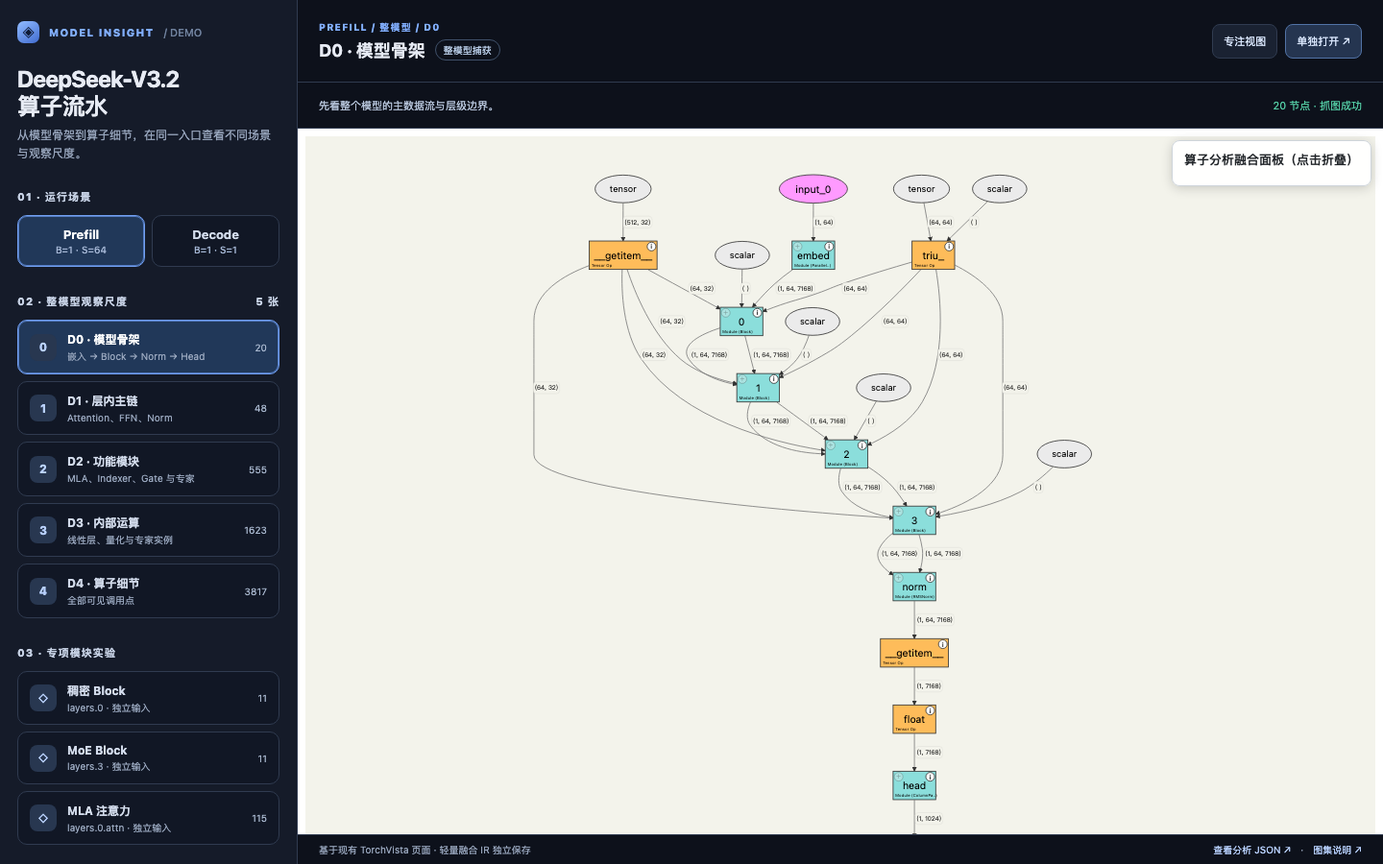
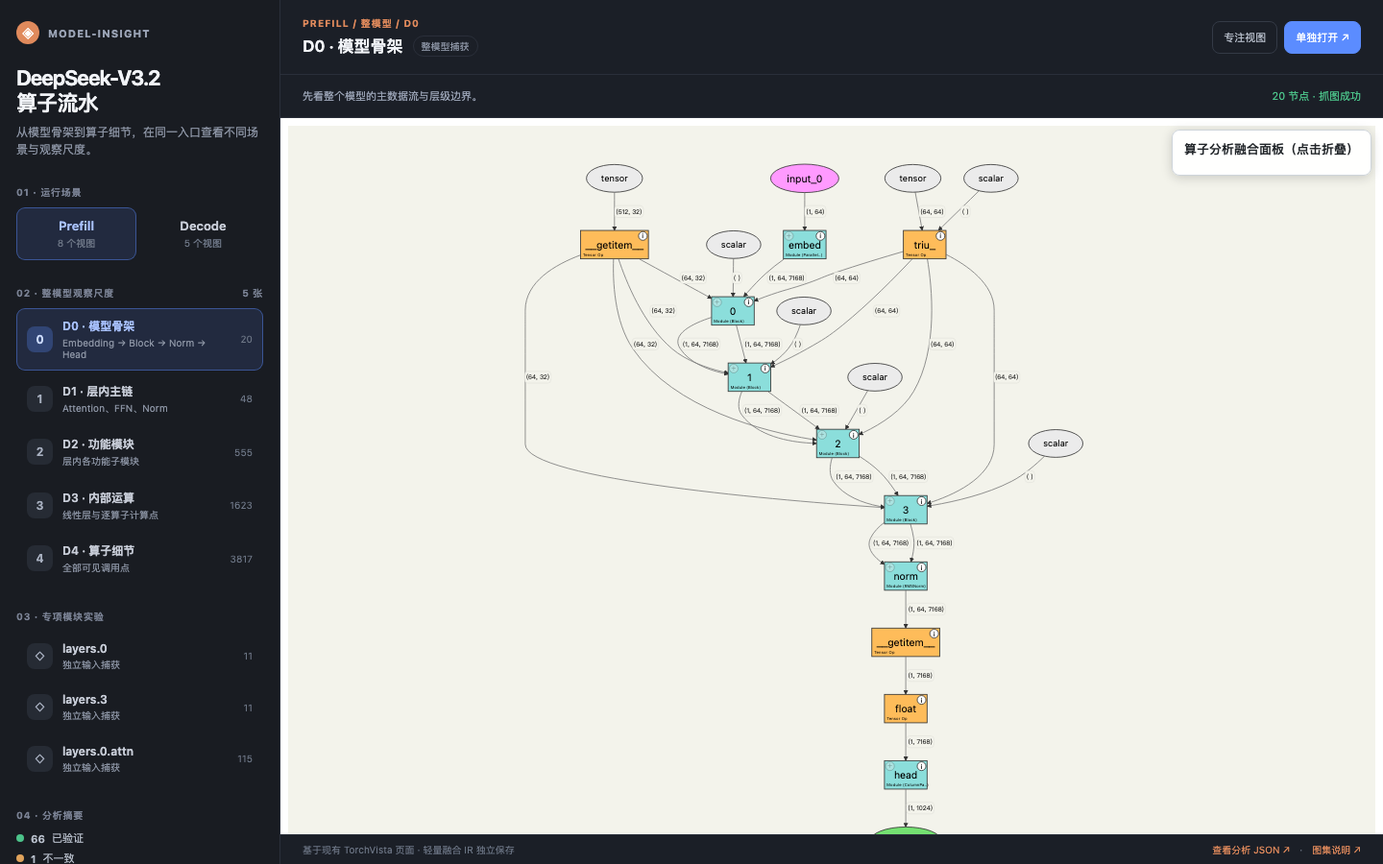
feat: 面板定版暗色主题 + GitHub Pages 上线
- render_index.py 主题重制：以 Codex demo 预览图为视觉基准（深色框架、
  橙色品牌/眉标、蓝色交互选中态），暗色风格由生成器统一保证，双模型
  面板重新生成；五态圆点亮色适配，rail 补副标题说明
- preview.png 重截（V3.2/K3 各一张，与实际面板视觉一致，替代旧暗色
  demo 截图）；tests 8 步全绿
- 开通 GitHub Pages（main/root，.nojekyll 跳过 Jekyll）：README 示例区
  改为在线直达链接，本地 http.server 降为备选
- SKILL 阶段五补暗色主题工序声明

diff --git a/outputs/Kimi-K3/viz/index.html b/outputs/Kimi-K3/viz/index.html
@@ -5,8 +5,8 @@
 <meta name="viewport" content="width=device-width,initial-scale=1">
 <title>Kimi-K3 · 算子流水</title>
 <style>
-:root{font-family:Inter,-apple-system,BlinkMacSystemFont,"PingFang SC","Microsoft Yahei",sans-serif;color:#292722;background:#f8f7f4;--panel:#f2f0eb;--panel2:#ebe8e1;--line:#e2ded6;--muted:#77736c;--accent:#c56a45;--accent-soft:#f4e7df;--good:#39745c;--warn:#a66a26}
-*{box-sizing:border-box}body{margin:0;min-height:100vh}button,a{font:inherit}button{cursor:pointer}a{color:inherit}.app{display:grid;grid-template-columns:292px minmax(0,1fr);height:100vh;min-height:580px}.rail{background:var(--panel);border-right:1px solid var(--line);overflow:auto;padding:22px 17px}.brand{display:flex;align-items:center;gap:9px;font-size:11px;letter-spacing:.09em;font-weight:750;color:#716d66;text-transform:uppercase}.mark{width:24px;height:24px;display:grid;place-items:center;border-radius:50%;background:#d97850;color:#fff;font-size:14px;letter-spacing:0}.rail h1{font-size:22px;line-height:1.2;letter-spacing:-.035em;margin:22px 0 8px;font-weight:650}.subtle{color:var(--muted);font-size:12px;line-height:1.55}.section{margin-top:27px}.section-head{display:flex;align-items:center;justify-content:space-between;color:#77736c;font-size:10px;letter-spacing:.08em;font-weight:700;text-transform:uppercase;margin-bottom:9px}.tabs{display:grid;grid-template-columns:1fr 1fr;gap:7px}.tab,.item{border:1px solid transparent;background:transparent;color:#383630;border-radius:9px}.tab{padding:10px 7px;font-size:13px;font-weight:600}.tab:hover,.item:hover{background:#eae7e0}.tab.active,.item.active{border-color:#e6c6b6;background:#f5e8e1;color:#7d4029;box-shadow:none}.tab small{display:block;font-size:10px;color:#8f786b;font-weight:450;margin-top:3px}.items{display:grid;gap:3px}.item{text-align:left;padding:9px 10px;display:flex;align-items:center;gap:10px;width:100%}.n{flex:0 0 27px;height:27px;border-radius:8px;display:grid;place-items:center;background:#e8e5de;color:#706b62;font-size:12px;font-weight:650}.item.active .n{background:#e6c7b7;color:#87462e}.item strong{display:block;font-size:12px;font-weight:600}.item small{display:block;color:var(--muted);font-size:10px;margin-top:3px;line-height:1.25}.count{margin-left:auto;color:#8a857c;font-size:10px;white-space:nowrap}.empty{color:var(--muted);font-size:12px;border:1px dashed #d7d1c7;padding:12px;border-radius:9px}.stats{display:grid;gap:5px}.stat{display:flex;align-items:center;gap:7px;font-size:11px;color:#4c4842}.stat b{font-weight:650}.dot{width:8px;height:8px;border-radius:50%;flex:0 0 8px}.note{margin-top:9px;font-size:10px;line-height:1.5;color:var(--muted);cursor:help}.main{min-width:0;display:flex;flex-direction:column}.top{display:flex;justify-content:space-between;align-items:center;gap:14px;padding:17px 23px;border-bottom:1px solid var(--line);min-height:78px;background:#fbfaf8}.eyebrow{color:#a85a3b;font-size:10px;letter-spacing:.1em;text-transform:uppercase;font-weight:700}.heading{display:flex;align-items:center;gap:10px;margin-top:5px;flex-wrap:wrap}.heading h2{font-size:17px;margin:0;font-weight:620}.pill{border:1px solid #e2ded6;color:#77736c;border-radius:50px;padding:3px 8px;font-size:10px}.topactions{display:flex;gap:7px;flex-shrink:0}.action{background:#c56a45;color:white;border:1px solid #c56a45;border-radius:8px;text-decoration:none;padding:8px 11px;font-size:11px}.action:hover{background:#ad5938}.action.secondary{background:transparent;color:#57534d;border-color:#ddd8cf}.action.secondary:hover{background:#f0eee9}.context{display:flex;gap:16px;align-items:center;justify-content:space-between;padding:10px 23px;border-bottom:1px solid var(--line);color:#6e6961;font-size:11px;min-height:45px;background:#fbfaf8}.context .warning{color:var(--warn)}.context .good{color:var(--good)}.framewrap{position:relative;flex:1;min-height:0;background:#f0f1f2}.framewrap iframe{width:100%;height:100%;border:0;background:white}.loading{position:absolute;z-index:1;inset:0;display:grid;place-items:center;background:#f0f1f2;color:#686d72;font-size:13px}.loading[hidden]{display:none}.foot{display:flex;justify-content:space-between;gap:12px;align-items:center;padding:8px 23px;border-top:1px solid var(--line);font-size:10px;color:var(--muted);background:#fbfaf8}.foot a{color:#9e573b;text-decoration:none}.focused .rail{display:none}.focused .app{grid-template-columns:1fr}@media(max-width:850px){.app{grid-template-columns:1fr;height:auto;min-height:100vh}.rail{border-right:0;border-bottom:1px solid var(--line);max-height:290px;padding:14px}.rail h1{font-size:18px;margin:10px 0 3px}.rail .section{margin-top:14px}.items{grid-template-columns:repeat(2,minmax(0,1fr))}.item{padding:8px}.main{height:calc(100vh - 260px);min-height:450px}.top{padding:10px}.context,.foot{padding:8px 10px}.action{padding:7px}.topactions{gap:4px}}
+:root{font-family:Inter,-apple-system,BlinkMacSystemFont,"PingFang SC","Microsoft Yahei",sans-serif;color:#e8eaf0;background:#14161b;--panel:#191c22;--panel2:#20242c;--line:#2a2f3a;--muted:#8b93a3;--accent:#e08a5c;--blue:#5b8cff;--blue-soft:rgba(91,140,255,.13);--good:#4cc38a;--warn:#e0a35c}
+*{box-sizing:border-box}body{margin:0;min-height:100vh}button,a{font:inherit}button{cursor:pointer}a{color:inherit}.app{display:grid;grid-template-columns:292px minmax(0,1fr);height:100vh;min-height:580px}.rail{background:var(--panel);border-right:1px solid var(--line);overflow:auto;padding:22px 17px}.brand{display:flex;align-items:center;gap:9px;font-size:11px;letter-spacing:.09em;font-weight:750;color:#9aa3b5;text-transform:uppercase}.mark{width:24px;height:24px;display:grid;place-items:center;border-radius:50%;background:var(--accent);color:#fff;font-size:14px;letter-spacing:0}.rail h1{font-size:22px;line-height:1.2;letter-spacing:-.035em;margin:22px 0 8px;font-weight:650;color:#f2f4f8}.subtle{color:var(--muted);font-size:12px;line-height:1.55}.section{margin-top:27px}.section-head{display:flex;align-items:center;justify-content:space-between;color:#7a8294;font-size:10px;letter-spacing:.08em;font-weight:700;text-transform:uppercase;margin-bottom:9px}.tabs{display:grid;grid-template-columns:1fr 1fr;gap:7px}.tab,.item{border:1px solid transparent;background:transparent;color:#c8cdd8;border-radius:9px}.tab{padding:10px 7px;font-size:13px;font-weight:600}.tab:hover,.item:hover{background:#232833}.tab.active,.item.active{border-color:rgba(91,140,255,.45);background:var(--blue-soft);color:#a9c2ff;box-shadow:none}.tab small{display:block;font-size:10px;color:#6d7686;font-weight:450;margin-top:3px}.items{display:grid;gap:3px}.item{text-align:left;padding:9px 10px;display:flex;align-items:center;gap:10px;width:100%}.n{flex:0 0 27px;height:27px;border-radius:8px;display:grid;place-items:center;background:#262b34;color:#a8b0c0;font-size:12px;font-weight:650}.item.active .n{background:rgba(91,140,255,.28);color:#cddcff}.item strong{display:block;font-size:12px;font-weight:600}.item small{display:block;color:var(--muted);font-size:10px;margin-top:3px;line-height:1.25}.count{margin-left:auto;color:#6d7686;font-size:10px;white-space:nowrap}.empty{color:var(--muted);font-size:12px;border:1px dashed #3a404c;padding:12px;border-radius:9px}.stats{display:grid;gap:5px}.stat{display:flex;align-items:center;gap:7px;font-size:11px;color:#b6bdc9}.stat b{font-weight:650}.dot{width:8px;height:8px;border-radius:50%;flex:0 0 8px}.note{margin-top:9px;font-size:10px;line-height:1.5;color:var(--muted);cursor:help}.main{min-width:0;display:flex;flex-direction:column}.top{display:flex;justify-content:space-between;align-items:center;gap:14px;padding:17px 23px;border-bottom:1px solid var(--line);min-height:78px;background:#1b1f27}.eyebrow{color:var(--accent);font-size:10px;letter-spacing:.1em;text-transform:uppercase;font-weight:700}.heading{display:flex;align-items:center;gap:10px;margin-top:5px;flex-wrap:wrap}.heading h2{font-size:17px;margin:0;font-weight:620;color:#f2f4f8}.pill{border:1px solid var(--line);color:var(--muted);border-radius:50px;padding:3px 8px;font-size:10px}.topactions{display:flex;gap:7px;flex-shrink:0}.action{background:var(--blue);color:white;border:1px solid var(--blue);border-radius:8px;text-decoration:none;padding:8px 11px;font-size:11px}.action:hover{background:#6f9aff}.action.secondary{background:transparent;color:#b6bdc9;border-color:#343a46}.action.secondary:hover{background:#232833}.context{display:flex;gap:16px;align-items:center;justify-content:space-between;padding:10px 23px;border-bottom:1px solid var(--line);color:#9aa3b5;font-size:11px;min-height:45px;background:#1b1f27}.context .warning{color:var(--warn)}.context .good{color:var(--good)}.framewrap{position:relative;flex:1;min-height:0;background:#0f1115}.framewrap iframe{width:100%;height:100%;border:0;background:white}.loading{position:absolute;z-index:1;inset:0;display:grid;place-items:center;background:#0f1115;color:#7a8294;font-size:13px}.loading[hidden]{display:none}.foot{display:flex;justify-content:space-between;gap:12px;align-items:center;padding:8px 23px;border-top:1px solid var(--line);font-size:10px;color:#6d7686;background:#1b1f27}.foot a{color:var(--accent);text-decoration:none}.focused .rail{display:none}.focused .app{grid-template-columns:1fr}@media(max-width:850px){.app{grid-template-columns:1fr;height:auto;min-height:100vh}.rail{border-right:0;border-bottom:1px solid var(--line);max-height:290px;padding:14px}.rail h1{font-size:18px;margin:10px 0 3px}.rail .section{margin-top:14px}.items{grid-template-columns:repeat(2,minmax(0,1fr))}.item{padding:8px}.main{height:calc(100vh - 260px);min-height:450px}.top{padding:10px}.context,.foot{padding:8px 10px}.action{padding:7px}.topactions{gap:4px}}
 </style>
 </head>
 <body>
@@ -14,6 +14,7 @@
 <aside class="rail" aria-label="视图导航">
   <div class="brand"><span class="mark">◈</span> Model-Insight</div>
   <h1>Kimi-K3<br>算子流水</h1>
+  <div class="subtle">从模型骨架到算子细节，在同一入口查看不同场景与观察尺度。</div>
   <section class="section"><div class="section-head">01 · 运行场景</div><div class="tabs" id="scenarios"></div></section>
   <section class="section"><div class="section-head">02 · 整模型视图 <span id="depthCount"></span></div><div class="items" id="depths"></div></section>
   <section class="section"><div class="section-head">03 · 专项模块实验</div><div class="items" id="modules"></div></section>
@@ -29,7 +30,7 @@
 const VIEWS=[{"id":"macro_prefill_vision","file":"macro_prefill_vision.html","kind":"macro","scenario":"prefill_vision","depth":null,"target":null,"title":"整模型","nodes":5210,"status":"ok"},{"id":"macro_prefill_text","file":"macro_prefill_text.html","kind":"macro","scenario":"prefill_text","depth":null,"target":null,"title":"整模型","nodes":2528,"status":"ok"},{"id":"macro_decode","file":"macro_decode.html","kind":"macro","scenario":"decode","depth":null,"target":null,"title":"整模型","nodes":1444,"status":"ok"},{"id":"micro_vit_patch_embed","file":"micro_vit_patch_embed.html","kind":"micro","scenario":"prefill_vision","depth":0,"target":"vision_tower.patch_embed","title":"vision_tower.patch_embed","nodes":31,"status":"ok"},{"id":"micro_vit_pos_emb","file":"micro_vit_pos_emb.html","kind":"micro","scenario":"prefill_vision","depth":0,"target":"vision_tower.patch_embed.pos_emb","title":"vision_tower.patch_embed.pos_emb","nodes":16,"status":"ok"},{"id":"micro_vit_layer0","file":"micro_vit_layer0.html","kind":"micro","scenario":"prefill_vision","depth":0,"target":"vision_tower.encoder.blocks.0","title":"vision_tower.encoder.blocks.0","nodes":84,"status":"ok"},{"id":"micro_projector","file":"micro_projector.html","kind":"micro","scenario":"prefill_vision","depth":0,"target":"mm_projector","title":"mm_projector","nodes":18,"status":"ok"},{"id":"micro_layer_kda0","file":"micro_layer_kda0.html","kind":"micro","scenario":"prefill_text","depth":0,"target":"language_model.model.layers.0","title":"language_model.model.layers.0","nodes":612,"status":"ok"},{"id":"micro_layer_kda_moe1","file":"micro_layer_kda_moe1.html","kind":"micro","scenario":"prefill_text","depth":0,"target":"language_model.model.layers.1","title":"language_model.model.layers.1","nodes":810,"status":"ok"},{"id":"micro_layer_mla3","file":"micro_layer_mla3.html","kind":"micro","scenario":"prefill_text","depth":0,"target":"language_model.model.layers.3","title":"language_model.model.layers.3","nodes":374,"status":"ok"},{"id":"micro_attn_kda","file":"micro_attn_kda.html","kind":"micro","scenario":"prefill_text","depth":0,"target":"language_model.model.layers.0.self_attn","title":"language_model.model.layers.0.self_attn","nodes":521,"status":"ok"},{"id":"micro_attn_mla","file":"micro_attn_mla.html","kind":"micro","scenario":"prefill_text","depth":0,"target":"language_model.model.layers.3.self_attn","title":"language_model.model.layers.3.self_attn","nodes":85,"status":"ok"},{"id":"micro_attn_kda_decode","file":"micro_attn_kda_decode.html","kind":"micro","scenario":"decode","depth":0,"target":"language_model.model.layers.0.self_attn","title":"language_model.model.layers.0.self_attn","nodes":162,"status":"ok"},{"id":"micro_attn_mla_decode","file":"micro_attn_mla_decode.html","kind":"micro","scenario":"decode","depth":0,"target":"language_model.model.layers.3.self_attn","title":"language_model.model.layers.3.self_attn","nodes":89,"status":"ok"},{"id":"micro_moe_gate","file":"micro_moe_gate.html","kind":"micro","scenario":"prefill_text","depth":0,"target":"language_model.model.layers.1.block_sparse_moe.gate","title":"language_model.model.layers.1.block_sparse_moe.gate","nodes":25,"status":"ok"},{"id":"micro_expert0","file":"micro_expert0.html","kind":"micro","scenario":"prefill_text","depth":0,"target":"language_model.model.layers.1.block_sparse_moe.experts.0","title":"language_model.model.layers.1.block_sparse_moe.experts.0","nodes":27,"status":"ok"},{"id":"micro_mlp_dense","file":"micro_mlp_dense.html","kind":"micro","scenario":"prefill_text","depth":0,"target":"language_model.model.layers.0.mlp","title":"language_model.model.layers.0.mlp","nodes":27,"status":"ok"},{"id":"micro_embed","file":"micro_embed.html","kind":"micro","scenario":"prefill_text","depth":0,"target":"language_model.model.embed_tokens","title":"language_model.model.embed_tokens","nodes":5,"status":"ok"},{"id":"micro_norm","file":"micro_norm.html","kind":"micro","scenario":"prefill_text","depth":0,"target":"language_model.model.norm","title":"language_model.model.norm","nodes":14,"status":"ok"},{"id":"micro_lm_head","file":"micro_lm_head.html","kind":"micro","scenario":"prefill_text","depth":0,"target":"language_model.lm_head","title":"language_model.lm_head","nodes":4,"status":"ok"}];
 const DETAILS={"depthnull":{"title":"整模型","description":"单次整模型捕获","long":"该运行无深度系列，整模型一张图完成观察。"},"micro_vit_patch_embed":{"title":"vision_tower.patch_embed","description":"独立输入捕获","long":"使用单独构造的输入捕获 vision_tower.patch_embed；与整模型视图分别产生。"},"micro_vit_pos_emb":{"title":"vision_tower.patch_embed.pos_emb","description":"独立输入捕获","long":"使用单独构造的输入捕获 vision_tower.patch_embed.pos_emb；与整模型视图分别产生。"},"micro_vit_layer0":{"title":"vision_tower.encoder.blocks.0","description":"独立输入捕获","long":"使用单独构造的输入捕获 vision_tower.encoder.blocks.0；与整模型视图分别产生。"},"micro_projector":{"title":"mm_projector","description":"独立输入捕获","long":"使用单独构造的输入捕获 mm_projector；与整模型视图分别产生。"},"micro_layer_kda0":{"title":"language_model.model.layers.0","description":"独立输入捕获","long":"使用单独构造的输入捕获 language_model.model.layers.0；与整模型视图分别产生。"},"micro_layer_kda_moe1":{"title":"language_model.model.layers.1","description":"独立输入捕获","long":"使用单独构造的输入捕获 language_model.model.layers.1；与整模型视图分别产生。"},"micro_layer_mla3":{"title":"language_model.model.layers.3","description":"独立输入捕获","long":"使用单独构造的输入捕获 language_model.model.layers.3；与整模型视图分别产生。"},"micro_attn_kda":{"title":"language_model.model.layers.0.self_attn","description":"独立输入捕获","long":"使用单独构造的输入捕获 language_model.model.layers.0.self_attn；与整模型视图分别产生。"},"micro_attn_mla":{"title":"language_model.model.layers.3.self_attn","description":"独立输入捕获","long":"使用单独构造的输入捕获 language_model.model.layers.3.self_attn；与整模型视图分别产生。"},"micro_attn_kda_decode":{"title":"language_model.model.layers.0.self_attn","description":"独立输入捕获","long":"使用单独构造的输入捕获 language_model.model.layers.0.self_attn；与整模型视图分别产生。"},"micro_attn_mla_decode":{"title":"language_model.model.layers.3.self_attn","description":"独立输入捕获","long":"使用单独构造的输入捕获 language_model.model.layers.3.self_attn；与整模型视图分别产生。"},"micro_moe_gate":{"title":"language_model.model.layers.1.block_sparse_moe.gate","description":"独立输入捕获","long":"使用单独构造的输入捕获 language_model.model.layers.1.block_sparse_moe.gate；与整模型视图分别产生。"},"micro_expert0":{"title":"language_model.model.layers.1.block_sparse_moe.experts.0","description":"独立输入捕获","long":"使用单独构造的输入捕获 language_model.model.layers.1.block_sparse_moe.experts.0；与整模型视图分别产生。"},"micro_mlp_dense":{"title":"language_model.model.layers.0.mlp","description":"独立输入捕获","long":"使用单独构造的输入捕获 language_model.model.layers.0.mlp；与整模型视图分别产生。"},"micro_embed":{"title":"language_model.model.embed_tokens","description":"独立输入捕获","long":"使用单独构造的输入捕获 language_model.model.embed_tokens；与整模型视图分别产生。"},"micro_norm":{"title":"language_model.model.norm","description":"独立输入捕获","long":"使用单独构造的输入捕获 language_model.model.norm；与整模型视图分别产生。"},"micro_lm_head":{"title":"language_model.lm_head","description":"独立输入捕获","long":"使用单独构造的输入捕获 language_model.lm_head；与整模型视图分别产生。"}};
 const SUMMARY={"statuses":{"verified":64,"mismatch":0,"llm_only":5,"capture_only":0,"conflict":0},"totalNodes":69,"replacementCount":4,"replacementsFull":"· R1 einops.rearrange 子集 shim（sys.path 首位导入级遮蔽，覆盖 KDA 用到的 4 种模式串）\n· R2 fla 包 shim：FusedRMSNormGated / ShortConvolution / chunk_kda / fused_recurrent_kda / prepare_* / tensor_cache 六组件数学重建\n· R3 语言侧 FA2 纯 torch 等价函数注册（softmax(QK^T·scale)V，bottom-right 因果）\n· P transformers 5.17.0 兼容补丁 4 项：OutputRecorder 迁移别名 / create_causal_mask 形参与 KimiDynamicCache 短路 / tie_weights 签名 / config._attn_implementation 回写","scaleNote":"分支维度全部保真：situ 激活（fp32 内部）、latent MoE+routed_norm、MLA 低秩+输出门+无 o_norm（o_norm 为 KDA 专属 FusedRMSNormGated）、KDA 短卷积 k=4+全秩门控+gate_lower_bound=-…"};
-const STATUS_META=[["verified","已验证","#39745c"],["mismatch","不一致","#a66a26"],["llm_only","仅推导","#77736c"],["capture_only","仅捕获","#77736c"],["conflict","冲突","#b3452f"]];
+const STATUS_META=[["verified","已验证","#4cc38a"],["mismatch","不一致","#e0a35c"],["llm_only","仅推导","#8b93a3"],["capture_only","仅捕获","#8b93a3"],["conflict","冲突","#e06c5c"]];
 const $=id=>document.getElementById(id);
 const byId=Object.fromEntries(VIEWS.map(v=>[v.id,v]));
 const SCENARIOS=[...new Set(VIEWS.map(v=>v.scenario))].map(s=>({key:s,label:s.charAt(0).toUpperCase()+s.slice(1).replace(/_/g,' '),count:VIEWS.filter(v=>v.scenario===s).length}));

diff --git a/outputs/DeepSeek-V3.2/viz/index.html b/outputs/DeepSeek-V3.2/viz/index.html
@@ -5,8 +5,8 @@
 <meta name="viewport" content="width=device-width,initial-scale=1">
 <title>DeepSeek-V3.2 · 算子流水</title>
 <style>
-:root{font-family:Inter,-apple-system,BlinkMacSystemFont,"PingFang SC","Microsoft Yahei",sans-serif;color:#292722;background:#f8f7f4;--panel:#f2f0eb;--panel2:#ebe8e1;--line:#e2ded6;--muted:#77736c;--accent:#c56a45;--accent-soft:#f4e7df;--good:#39745c;--warn:#a66a26}
-*{box-sizing:border-box}body{margin:0;min-height:100vh}button,a{font:inherit}button{cursor:pointer}a{color:inherit}.app{display:grid;grid-template-columns:292px minmax(0,1fr);height:100vh;min-height:580px}.rail{background:var(--panel);border-right:1px solid var(--line);overflow:auto;padding:22px 17px}.brand{display:flex;align-items:center;gap:9px;font-size:11px;letter-spacing:.09em;font-weight:750;color:#716d66;text-transform:uppercase}.mark{width:24px;height:24px;display:grid;place-items:center;border-radius:50%;background:#d97850;color:#fff;font-size:14px;letter-spacing:0}.rail h1{font-size:22px;line-height:1.2;letter-spacing:-.035em;margin:22px 0 8px;font-weight:650}.subtle{color:var(--muted);font-size:12px;line-height:1.55}.section{margin-top:27px}.section-head{display:flex;align-items:center;justify-content:space-between;color:#77736c;font-size:10px;letter-spacing:.08em;font-weight:700;text-transform:uppercase;margin-bottom:9px}.tabs{display:grid;grid-template-columns:1fr 1fr;gap:7px}.tab,.item{border:1px solid transparent;background:transparent;color:#383630;border-radius:9px}.tab{padding:10px 7px;font-size:13px;font-weight:600}.tab:hover,.item:hover{background:#eae7e0}.tab.active,.item.active{border-color:#e6c6b6;background:#f5e8e1;color:#7d4029;box-shadow:none}.tab small{display:block;font-size:10px;color:#8f786b;font-weight:450;margin-top:3px}.items{display:grid;gap:3px}.item{text-align:left;padding:9px 10px;display:flex;align-items:center;gap:10px;width:100%}.n{flex:0 0 27px;height:27px;border-radius:8px;display:grid;place-items:center;background:#e8e5de;color:#706b62;font-size:12px;font-weight:650}.item.active .n{background:#e6c7b7;color:#87462e}.item strong{display:block;font-size:12px;font-weight:600}.item small{display:block;color:var(--muted);font-size:10px;margin-top:3px;line-height:1.25}.count{margin-left:auto;color:#8a857c;font-size:10px;white-space:nowrap}.empty{color:var(--muted);font-size:12px;border:1px dashed #d7d1c7;padding:12px;border-radius:9px}.stats{display:grid;gap:5px}.stat{display:flex;align-items:center;gap:7px;font-size:11px;color:#4c4842}.stat b{font-weight:650}.dot{width:8px;height:8px;border-radius:50%;flex:0 0 8px}.note{margin-top:9px;font-size:10px;line-height:1.5;color:var(--muted);cursor:help}.main{min-width:0;display:flex;flex-direction:column}.top{display:flex;justify-content:space-between;align-items:center;gap:14px;padding:17px 23px;border-bottom:1px solid var(--line);min-height:78px;background:#fbfaf8}.eyebrow{color:#a85a3b;font-size:10px;letter-spacing:.1em;text-transform:uppercase;font-weight:700}.heading{display:flex;align-items:center;gap:10px;margin-top:5px;flex-wrap:wrap}.heading h2{font-size:17px;margin:0;font-weight:620}.pill{border:1px solid #e2ded6;color:#77736c;border-radius:50px;padding:3px 8px;font-size:10px}.topactions{display:flex;gap:7px;flex-shrink:0}.action{background:#c56a45;color:white;border:1px solid #c56a45;border-radius:8px;text-decoration:none;padding:8px 11px;font-size:11px}.action:hover{background:#ad5938}.action.secondary{background:transparent;color:#57534d;border-color:#ddd8cf}.action.secondary:hover{background:#f0eee9}.context{display:flex;gap:16px;align-items:center;justify-content:space-between;padding:10px 23px;border-bottom:1px solid var(--line);color:#6e6961;font-size:11px;min-height:45px;background:#fbfaf8}.context .warning{color:var(--warn)}.context .good{color:var(--good)}.framewrap{position:relative;flex:1;min-height:0;background:#f0f1f2}.framewrap iframe{width:100%;height:100%;border:0;background:white}.loading{position:absolute;z-index:1;inset:0;display:grid;place-items:center;background:#f0f1f2;color:#686d72;font-size:13px}.loading[hidden]{display:none}.foot{display:flex;justify-content:space-between;gap:12px;align-items:center;padding:8px 23px;border-top:1px solid var(--line);font-size:10px;color:var(--muted);background:#fbfaf8}.foot a{color:#9e573b;text-decoration:none}.focused .rail{display:none}.focused .app{grid-template-columns:1fr}@media(max-width:850px){.app{grid-template-columns:1fr;height:auto;min-height:100vh}.rail{border-right:0;border-bottom:1px solid var(--line);max-height:290px;padding:14px}.rail h1{font-size:18px;margin:10px 0 3px}.rail .section{margin-top:14px}.items{grid-template-columns:repeat(2,minmax(0,1fr))}.item{padding:8px}.main{height:calc(100vh - 260px);min-height:450px}.top{padding:10px}.context,.foot{padding:8px 10px}.action{padding:7px}.topactions{gap:4px}}
+:root{font-family:Inter,-apple-system,BlinkMacSystemFont,"PingFang SC","Microsoft Yahei",sans-serif;color:#e8eaf0;background:#14161b;--panel:#191c22;--panel2:#20242c;--line:#2a2f3a;--muted:#8b93a3;--accent:#e08a5c;--blue:#5b8cff;--blue-soft:rgba(91,140,255,.13);--good:#4cc38a;--warn:#e0a35c}
+*{box-sizing:border-box}body{margin:0;min-height:100vh}button,a{font:inherit}button{cursor:pointer}a{color:inherit}.app{display:grid;grid-template-columns:292px minmax(0,1fr);height:100vh;min-height:580px}.rail{background:var(--panel);border-right:1px solid var(--line);overflow:auto;padding:22px 17px}.brand{display:flex;align-items:center;gap:9px;font-size:11px;letter-spacing:.09em;font-weight:750;color:#9aa3b5;text-transform:uppercase}.mark{width:24px;height:24px;display:grid;place-items:center;border-radius:50%;background:var(--accent);color:#fff;font-size:14px;letter-spacing:0}.rail h1{font-size:22px;line-height:1.2;letter-spacing:-.035em;margin:22px 0 8px;font-weight:650;color:#f2f4f8}.subtle{color:var(--muted);font-size:12px;line-height:1.55}.section{margin-top:27px}.section-head{display:flex;align-items:center;justify-content:space-between;color:#7a8294;font-size:10px;letter-spacing:.08em;font-weight:700;text-transform:uppercase;margin-bottom:9px}.tabs{display:grid;grid-template-columns:1fr 1fr;gap:7px}.tab,.item{border:1px solid transparent;background:transparent;color:#c8cdd8;border-radius:9px}.tab{padding:10px 7px;font-size:13px;font-weight:600}.tab:hover,.item:hover{background:#232833}.tab.active,.item.active{border-color:rgba(91,140,255,.45);background:var(--blue-soft);color:#a9c2ff;box-shadow:none}.tab small{display:block;font-size:10px;color:#6d7686;font-weight:450;margin-top:3px}.items{display:grid;gap:3px}.item{text-align:left;padding:9px 10px;display:flex;align-items:center;gap:10px;width:100%}.n{flex:0 0 27px;height:27px;border-radius:8px;display:grid;place-items:center;background:#262b34;color:#a8b0c0;font-size:12px;font-weight:650}.item.active .n{background:rgba(91,140,255,.28);color:#cddcff}.item strong{display:block;font-size:12px;font-weight:600}.item small{display:block;color:var(--muted);font-size:10px;margin-top:3px;line-height:1.25}.count{margin-left:auto;color:#6d7686;font-size:10px;white-space:nowrap}.empty{color:var(--muted);font-size:12px;border:1px dashed #3a404c;padding:12px;border-radius:9px}.stats{display:grid;gap:5px}.stat{display:flex;align-items:center;gap:7px;font-size:11px;color:#b6bdc9}.stat b{font-weight:650}.dot{width:8px;height:8px;border-radius:50%;flex:0 0 8px}.note{margin-top:9px;font-size:10px;line-height:1.5;color:var(--muted);cursor:help}.main{min-width:0;display:flex;flex-direction:column}.top{display:flex;justify-content:space-between;align-items:center;gap:14px;padding:17px 23px;border-bottom:1px solid var(--line);min-height:78px;background:#1b1f27}.eyebrow{color:var(--accent);font-size:10px;letter-spacing:.1em;text-transform:uppercase;font-weight:700}.heading{display:flex;align-items:center;gap:10px;margin-top:5px;flex-wrap:wrap}.heading h2{font-size:17px;margin:0;font-weight:620;color:#f2f4f8}.pill{border:1px solid var(--line);color:var(--muted);border-radius:50px;padding:3px 8px;font-size:10px}.topactions{display:flex;gap:7px;flex-shrink:0}.action{background:var(--blue);color:white;border:1px solid var(--blue);border-radius:8px;text-decoration:none;padding:8px 11px;font-size:11px}.action:hover{background:#6f9aff}.action.secondary{background:transparent;color:#b6bdc9;border-color:#343a46}.action.secondary:hover{background:#232833}.context{display:flex;gap:16px;align-items:center;justify-content:space-between;padding:10px 23px;border-bottom:1px solid var(--line);color:#9aa3b5;font-size:11px;min-height:45px;background:#1b1f27}.context .warning{color:var(--warn)}.context .good{color:var(--good)}.framewrap{position:relative;flex:1;min-height:0;background:#0f1115}.framewrap iframe{width:100%;height:100%;border:0;background:white}.loading{position:absolute;z-index:1;inset:0;display:grid;place-items:center;background:#0f1115;color:#7a8294;font-size:13px}.loading[hidden]{display:none}.foot{display:flex;justify-content:space-between;gap:12px;align-items:center;padding:8px 23px;border-top:1px solid var(--line);font-size:10px;color:#6d7686;background:#1b1f27}.foot a{color:var(--accent);text-decoration:none}.focused .rail{display:none}.focused .app{grid-template-columns:1fr}@media(max-width:850px){.app{grid-template-columns:1fr;height:auto;min-height:100vh}.rail{border-right:0;border-bottom:1px solid var(--line);max-height:290px;padding:14px}.rail h1{font-size:18px;margin:10px 0 3px}.rail .section{margin-top:14px}.items{grid-template-columns:repeat(2,minmax(0,1fr))}.item{padding:8px}.main{height:calc(100vh - 260px);min-height:450px}.top{padding:10px}.context,.foot{padding:8px 10px}.action{padding:7px}.topactions{gap:4px}}
 </style>
 </head>
 <body>
@@ -14,6 +14,7 @@
 <aside class="rail" aria-label="视图导航">
   <div class="brand"><span class="mark">◈</span> Model-Insight</div>
   <h1>DeepSeek-V3.2<br>算子流水</h1>
+  <div class="subtle">从模型骨架到算子细节，在同一入口查看不同场景与观察尺度。</div>
   <section class="section"><div class="section-head">01 · 运行场景</div><div class="tabs" id="scenarios"></div></section>
   <section class="section"><div class="section-head">02 · 整模型观察尺度 <span id="depthCount"></span></div><div class="items" id="depths"></div></section>
   <section class="section"><div class="section-head">03 · 专项模块实验</div><div class="items" id="modules"></div></section>
@@ -29,7 +30,7 @@
 const VIEWS=[{"id":"macro_prefill_d0","file":"macro_prefill_d0.html","kind":"macro","scenario":"prefill","depth":0,"target":null,"title":"模型骨架","nodes":20,"status":"ok"},{"id":"macro_prefill_d1","file":"macro_prefill_d1.html","kind":"macro","scenario":"prefill","depth":1,"target":null,"title":"层内主链","nodes":48,"status":"ok"},{"id":"macro_prefill_d2","file":"macro_prefill_d2.html","kind":"macro","scenario":"prefill","depth":2,"target":null,"title":"功能模块","nodes":555,"status":"ok"},{"id":"macro_prefill_d3","file":"macro_prefill_d3.html","kind":"macro","scenario":"prefill","depth":3,"target":null,"title":"内部运算","nodes":1623,"status":"ok"},{"id":"macro_decode_d0","file":"macro_decode_d0.html","kind":"macro","scenario":"decode","depth":0,"target":null,"title":"模型骨架","nodes":17,"status":"ok"},{"id":"macro_decode_d1","file":"macro_decode_d1.html","kind":"macro","scenario":"decode","depth":1,"target":null,"title":"层内主链","nodes":45,"status":"ok"},{"id":"macro_decode_d2","file":"macro_decode_d2.html","kind":"macro","scenario":"decode","depth":2,"target":null,"title":"功能模块","nodes":644,"status":"ok"},{"id":"macro_decode_d3","file":"macro_decode_d3.html","kind":"macro","scenario":"decode","depth":3,"target":null,"title":"内部运算","nodes":1692,"status":"ok"},{"id":"macro_prefill_d4","file":"macro_prefill_d4.html","kind":"macro","scenario":"prefill","depth":4,"target":null,"title":"算子细节","nodes":3817,"status":"ok"},{"id":"macro_decode_d4","file":"macro_decode_d4.html","kind":"macro","scenario":"decode","depth":4,"target":null,"title":"算子细节","nodes":3658,"status":"ok"},{"id":"micro_dense_block","file":"micro_dense_block.html","kind":"micro","scenario":"prefill","depth":0,"target":"layers.0","title":"layers.0","nodes":11,"status":"ok"},{"id":"micro_moe_block","file":"micro_moe_block.html","kind":"micro","scenario":"prefill","depth":0,"target":"layers.3","title":"layers.3","nodes":11,"status":"ok"},{"id":"micro_mla_attn","file":"micro_mla_attn.html","kind":"micro","scenario":"prefill","depth":0,"target":"layers.0.attn","title":"layers.0.attn","nodes":115,"status":"ok"}];
 const DETAILS={"depth0":{"title":"模型骨架","description":"Embedding → Block → Norm → Head","long":"先看整个模型的主数据流与层级边界。"},"depth1":{"title":"层内主链","description":"Attention、FFN、Norm","long":"展开每层的注意力、前馈和归一化模块。"},"depth2":{"title":"功能模块","description":"层内各功能子模块","long":"查看注意力子模块、前馈、门控与专家等计算构成。"},"depth3":{"title":"内部运算","description":"线性层与逐算子计算点","long":"查看子模块内部的计算点与张量形状。"},"depth4":{"title":"算子细节","description":"全部可见调用点","long":"显示最细粒度算子，图较大，初次加载可能需要等待。"},"micro_dense_block":{"title":"layers.0","description":"独立输入捕获","long":"使用单独构造的输入捕获 layers.0；与整模型视图分别产生。"},"micro_moe_block":{"title":"layers.3","description":"独立输入捕获","long":"使用单独构造的输入捕获 layers.3；与整模型视图分别产生。"},"micro_mla_attn":{"title":"layers.0.attn","description":"独立输入捕获","long":"使用单独构造的输入捕获 layers.0.attn；与整模型视图分别产生。"}};
 const SUMMARY={"statuses":{"verified":66,"mismatch":1,"llm_only":1,"capture_only":0,"conflict":0},"totalNodes":68,"replacementCount":4,"replacementsFull":"· kernel.act_quant（tilelang 实现，毛坯 inference/kernel.py L87-111 fn + L36-84 kernel）\n· kernel.fp8_gemm（tilelang 实现，毛坯 inference/kernel.py L171-196 fn + L114-168 kernel）\n· kernel.fp8_index（tilelang 实现，毛坯 inference/kernel.py L254-274 fn + L199-251 kernel）\n· fast_hadamard_transform.hadamard_transform（CUDA 库，model.py L428-432 rotate_activation 内延迟 import，L472-473 对 Indexer q/k 调用）","scaleNote":"分支维度保真、规模维度缩水（不冒充全量）。671B 全量 → 抓图实例化对照：vocab_size 129280→1024；n_layers 61→4（层 0-2 稠密 + 层 3 MoE，保留真实层型边界）；n_heads 128→8（头结构不变：nope 128 / rop…"};
-const STATUS_META=[["verified","已验证","#39745c"],["mismatch","不一致","#a66a26"],["llm_only","仅推导","#77736c"],["capture_only","仅捕获","#77736c"],["conflict","冲突","#b3452f"]];
+const STATUS_META=[["verified","已验证","#4cc38a"],["mismatch","不一致","#e0a35c"],["llm_only","仅推导","#8b93a3"],["capture_only","仅捕获","#8b93a3"],["conflict","冲突","#e06c5c"]];
 const $=id=>document.getElementById(id);
 const byId=Object.fromEntries(VIEWS.map(v=>[v.id,v]));
 const SCENARIOS=[...new Set(VIEWS.map(v=>v.scenario))].map(s=>({key:s,label:s.charAt(0).toUpperCase()+s.slice(1).replace(/_/g,' '),count:VIEWS.filter(v=>v.scenario===s).length}));

diff --git a/agent-kit_ops-analysis/scripts/render_index.py b/agent-kit_ops-analysis/scripts/render_index.py
@@ -1,8 +1,8 @@
 #!/usr/bin/env python3
 """render_index.py — 生成 viz/index.html 集成面板（模型无关）。
 
-以 DeepSeek-V3.2 手搓面板为模板：CSS 与交互 JS 全部保留并改造为模型无关，
-数据全部实时读取、零硬编码：
+面板 UI 为统一暗色主题（橙色品牌/眉标 + 蓝色交互选中态），由本生成器
+整体产出、随重跑重算，禁手改。数据全部实时读取、零硬编码：
   - capture/capture_summary.json   作业清单（id/status/nodes/html）
   - capture/<id>.measured.json     每作业元数据（kind/scenario/target）
   - fusion/final_ir.json           模型名、五态统计、替换件、缩水声明
@@ -34,57 +34,59 @@ def fail(msg: str) -> None:
 # ---------------------------------------------------------------- 模板（源自手搓面板，JS 交互全保留）
 
 CSS = (
+    # 暗色主题（定版）：以 Codex demo 预览图为视觉基准——深色框架、
+    # 橙色品牌/眉标、蓝色交互选中态；TorchVista 图页保持原生亮色，嵌入深色框架
     ":root{font-family:Inter,-apple-system,BlinkMacSystemFont,\"PingFang SC\",\"Microsoft Yahei\",sans-serif;"
-    "color:#292722;background:#f8f7f4;--panel:#f2f0eb;--panel2:#ebe8e1;--line:#e2ded6;--muted:#77736c;"
-    "--accent:#c56a45;--accent-soft:#f4e7df;--good:#39745c;--warn:#a66a26}\n"
+    "color:#e8eaf0;background:#14161b;--panel:#191c22;--panel2:#20242c;--line:#2a2f3a;--muted:#8b93a3;"
+    "--accent:#e08a5c;--blue:#5b8cff;--blue-soft:rgba(91,140,255,.13);--good:#4cc38a;--warn:#e0a35c}\n"
     "*{box-sizing:border-box}body{margin:0;min-height:100vh}button,a{font:inherit}button{cursor:pointer}a{color:inherit}"
     ".app{display:grid;grid-template-columns:292px minmax(0,1fr);height:100vh;min-height:580px}"
     ".rail{background:var(--panel);border-right:1px solid var(--line);overflow:auto;padding:22px 17px}"
-    ".brand{display:flex;align-items:center;gap:9px;font-size:11px;letter-spacing:.09em;font-weight:750;color:#716d66;text-transform:uppercase}"
-    ".mark{width:24px;height:24px;display:grid;place-items:center;border-radius:50%;background:#d97850;color:#fff;font-size:14px;letter-spacing:0}"
-    ".rail h1{font-size:22px;line-height:1.2;letter-spacing:-.035em;margin:22px 0 8px;font-weight:650}"
+    ".brand{display:flex;align-items:center;gap:9px;font-size:11px;letter-spacing:.09em;font-weight:750;color:#9aa3b5;text-transform:uppercase}"
+    ".mark{width:24px;height:24px;display:grid;place-items:center;border-radius:50%;background:var(--accent);color:#fff;font-size:14px;letter-spacing:0}"
+    ".rail h1{font-size:22px;line-height:1.2;letter-spacing:-.035em;margin:22px 0 8px;font-weight:650;color:#f2f4f8}"
     ".subtle{color:var(--muted);font-size:12px;line-height:1.55}"
     ".section{margin-top:27px}"
-    ".section-head{display:flex;align-items:center;justify-content:space-between;color:#77736c;font-size:10px;letter-spacing:.08em;font-weight:700;text-transform:uppercase;margin-bottom:9px}"
+    ".section-head{display:flex;align-items:center;justify-content:space-between;color:#7a8294;font-size:10px;letter-spacing:.08em;font-weight:700;text-transform:uppercase;margin-bottom:9px}"
     ".tabs{display:grid;grid-template-columns:1fr 1fr;gap:7px}"
-    ".tab,.item{border:1px solid transparent;background:transparent;color:#383630;border-radius:9px}"
+    ".tab,.item{border:1px solid transparent;background:transparent;color:#c8cdd8;border-radius:9px}"
     ".tab{padding:10px 7px;font-size:13px;font-weight:600}"
-    ".tab:hover,.item:hover{background:#eae7e0}"
-    ".tab.active,.item.active{border-color:#e6c6b6;background:#f5e8e1;color:#7d4029;box-shadow:none}"
-    ".tab small{display:block;font-size:10px;color:#8f786b;font-weight:450;margin-top:3px}"
+    ".tab:hover,.item:hover{background:#232833}"
+    ".tab.active,.item.active{border-color:rgba(91,140,255,.45);background:var(--blue-soft);color:#a9c2ff;box-shadow:none}"
+    ".tab small{display:block;font-size:10px;color:#6d7686;font-weight:450;margin-top:3px}"
     ".items{display:grid;gap:3px}"
     ".item{text-align:left;padding:9px 10px;display:flex;align-items:center;gap:10px;width:100%}"
-    ".n{flex:0 0 27px;height:27px;border-radius:8px;display:grid;place-items:center;background:#e8e5de;color:#706b62;font-size:12px;font-weight:650}"
-    ".item.active .n{background:#e6c7b7;color:#87462e}"
+    ".n{flex:0 0 27px;height:27px;border-radius:8px;display:grid;place-items:center;background:#262b34;color:#a8b0c0;font-size:12px;font-weight:650}"
+    ".item.active .n{background:rgba(91,140,255,.28);color:#cddcff}"
     ".item strong{display:block;font-size:12px;font-weight:600}"
     ".item small{display:block;color:var(--muted);font-size:10px;margin-top:3px;line-height:1.25}"
-    ".count{margin-left:auto;color:#8a857c;font-size:10px;white-space:nowrap}"
-    ".empty{color:var(--muted);font-size:12px;border:1px dashed #d7d1c7;padding:12px;border-radius:9px}"
+    ".count{margin-left:auto;color:#6d7686;font-size:10px;white-space:nowrap}"
+    ".empty{color:var(--muted);font-size:12px;border:1px dashed #3a404c;padding:12px;border-radius:9px}"
     ".stats{display:grid;gap:5px}"
-    ".stat{display:flex;align-items:center;gap:7px;font-size:11px;color:#4c4842}"
+    ".stat{display:flex;align-items:center;gap:7px;font-size:11px;color:#b6bdc9}"
     ".stat b{font-weight:650}"
     ".dot{width:8px;height:8px;border-radius:50%;flex:0 0 8px}"
     ".note{margin-top:9px;font-size:10px;line-height:1.5;color:var(--muted);cursor:help}"
     ".main{min-width:0;display:flex;flex-direction:column}"
-    ".top{display:flex;justify-content:space-between;align-items:center;gap:14px;padding:17px 23px;border-bottom:1px solid var(--line);min-height:78px;background:#fbfaf8}"
-    ".eyebrow{color:#a85a3b;font-size:10px;letter-spacing:.1em;text-transform:uppercase;font-weight:700}"
+    ".top{display:flex;justify-content:space-between;align-items:center;gap:14px;padding:17px 23px;border-bottom:1px solid var(--line);min-height:78px;background:#1b1f27}"
+    ".eyebrow{color:var(--accent);font-size:10px;letter-spacing:.1em;text-transform:uppercase;font-weight:700}"
     ".heading{display:flex;align-items:center;gap:10px;margin-top:5px;flex-wrap:wrap}"
-    ".heading h2{font-size:17px;margin:0;font-weight:620}"
-    ".pill{border:1px solid #e2ded6;color:#77736c;border-radius:50px;padding:3px 8px;font-size:10px}"
+    ".heading h2{font-size:17px;margin:0;font-weight:620;color:#f2f4f8}"
+    ".pill{border:1px solid var(--line);color:var(--muted);border-radius:50px;padding:3px 8px;font-size:10px}"
     ".topactions{display:flex;gap:7px;flex-shrink:0}"
-    ".action{background:#c56a45;color:white;border:1px solid #c56a45;border-radius:8px;text-decoration:none;padding:8px 11px;font-size:11px}"
-    ".action:hover{background:#ad5938}"
-    ".action.secondary{background:transparent;color:#57534d;border-color:#ddd8cf}"
-    ".action.secondary:hover{background:#f0eee9}"
-    ".context{display:flex;gap:16px;align-items:center;justify-content:space-between;padding:10px 23px;border-bottom:1px solid var(--line);color:#6e6961;font-size:11px;min-height:45px;background:#fbfaf8}"
+    ".action{background:var(--blue);color:white;border:1px solid var(--blue);border-radius:8px;text-decoration:none;padding:8px 11px;font-size:11px}"
+    ".action:hover{background:#6f9aff}"
+    ".action.secondary{background:transparent;color:#b6bdc9;border-color:#343a46}"
+    ".action.secondary:hover{background:#232833}"
+    ".context{display:flex;gap:16px;align-items:center;justify-content:space-between;padding:10px 23px;border-bottom:1px solid var(--line);color:#9aa3b5;font-size:11px;min-height:45px;background:#1b1f27}"
     ".context .warning{color:var(--warn)}"
     ".context .good{color:var(--good)}"
-    ".framewrap{position:relative;flex:1;min-height:0;background:#f0f1f2}"
+    ".framewrap{position:relative;flex:1;min-height:0;background:#0f1115}"
     ".framewrap iframe{width:100%;height:100%;border:0;background:white}"
-    ".loading{position:absolute;z-index:1;inset:0;display:grid;place-items:center;background:#f0f1f2;color:#686d72;font-size:13px}"
+    ".loading{position:absolute;z-index:1;inset:0;display:grid;place-items:center;background:#0f1115;color:#7a8294;font-size:13px}"
     ".loading[hidden]{display:none}"
-    ".foot{display:flex;justify-content:space-between;gap:12px;align-items:center;padding:8px 23px;border-top:1px solid var(--line);font-size:10px;color:var(--muted);background:#fbfaf8}"
-    ".foot a{color:#9e573b;text-decoration:none}"
+    ".foot{display:flex;justify-content:space-between;gap:12px;align-items:center;padding:8px 23px;border-top:1px solid var(--line);font-size:10px;color:#6d7686;background:#1b1f27}"
+    ".foot a{color:var(--accent);text-decoration:none}"
     ".focused .rail{display:none}.focused .app{grid-template-columns:1fr}"
     "@media(max-width:850px){.app{grid-template-columns:1fr;height:auto;min-height:100vh}"
     ".rail{border-right:0;border-bottom:1px solid var(--line);max-height:290px;padding:14px}"
@@ -109,6 +111,7 @@ __CSS__
 <aside class="rail" aria-label="视图导航">
   <div class="brand"><span class="mark">◈</span> Model-Insight</div>
   <h1>__MODEL__<br>算子流水</h1>
+  <div class="subtle">从模型骨架到算子细节，在同一入口查看不同场景与观察尺度。</div>
   <section class="section"><div class="section-head">01 · 运行场景</div><div class="tabs" id="scenarios"></div></section>
   <section class="section"><div class="section-head">02 · __DEPTH_SECTION__ <span id="depthCount"></span></div><div class="items" id="depths"></div></section>
   <section class="section"><div class="section-head">03 · 专项模块实验</div><div class="items" id="modules"></div></section>
@@ -124,7 +127,7 @@ __CSS__
 const VIEWS=__VIEWS__;
 const DETAILS=__DETAILS__;
 const SUMMARY=__SUMMARY__;
-const STATUS_META=[["verified","已验证","#39745c"],["mismatch","不一致","#a66a26"],["llm_only","仅推导","#77736c"],["capture_only","仅捕获","#77736c"],["conflict","冲突","#b3452f"]];
+const STATUS_META=[["verified","已验证","#4cc38a"],["mismatch","不一致","#e0a35c"],["llm_only","仅推导","#8b93a3"],["capture_only","仅捕获","#8b93a3"],["conflict","冲突","#e06c5c"]];
 const $=id=>document.getElementById(id);
 const byId=Object.fromEntries(VIEWS.map(v=>[v.id,v]));
 const SCENARIOS=[...new Set(VIEWS.map(v=>v.scenario))].map(s=>({key:s,label:s.charAt(0).toUpperCase()+s.slice(1).replace(/_/g,' '),count:VIEWS.filter(v=>v.scenario===s).length}));

diff --git a/README.md b/README.md
@@ -15,16 +15,19 @@
 
 ## 示例
 
-仓库包含 [DeepSeek-V3.2](outputs/DeepSeek-V3.2/) 和 [Kimi-K3](outputs/Kimi-K3/) 的分析产物。启动本地服务即可浏览已有页面：
+仓库包含 [DeepSeek-V3.2](outputs/DeepSeek-V3.2/) 和 [Kimi-K3](outputs/Kimi-K3/) 的分析产物，已部署为在线页面：
+
+- [DeepSeek-V3.2 统一主页](https://jackie2049.github.io/model-insight/outputs/DeepSeek-V3.2/viz/index.html)
+- [Kimi-K3 统一主页](https://jackie2049.github.io/model-insight/outputs/Kimi-K3/viz/index.html)
+
+也可以本地浏览：
 
 ```bash
 git clone https://github.com/Jackie2049/model-insight.git
 cd model-insight
 python3 -m http.server 8899
+# 打开 http://127.0.0.1:8899/outputs/DeepSeek-V3.2/viz/index.html
 ```
-
-- [DeepSeek-V3.2 统一主页](http://127.0.0.1:8899/outputs/DeepSeek-V3.2/viz/index.html)
-- [Kimi-K3 统一主页](outputs/Kimi-K3/viz/index.html)
 
 测试覆盖、结果与限制见 [RESULTS.md](RESULTS.md)。
 
@@ -53,7 +56,7 @@ python3 -m venv .venv
 |---|---|
 | `fusion/final_ir.json` | 逻辑与捕获 shape/dtype、源码依据、场景及分析状态 |
 | `fusion/diff_report.md` | 差异与复核记录 |
-| `viz/` | 分层交互图 |
+| `viz/` | 分层交互图 + index.html 集成面板 |
 | `llm-analysis/`、`capture/` | 两路独立分析的记录 |
 
 以上路径均位于 `outputs/<模型名>/`。JSON 字段由 [schema 校验器](agent-kit_ops-analysis/scripts/ir_schema.py) 约束。

diff --git a/agent-kit_ops-analysis/SKILL.md b/agent-kit_ops-analysis/SKILL.md
@@ -107,9 +107,10 @@ capture_only 补分析或说明、缩水声明合并、conflict 诚实保留。
 ```
 
 把注入后的 HTML 复制到 `viz/`（保留 capture/ 原件）。`render_index.py` 随后
-生成 `viz/index.html` 集成面板与 `viz/views.json`：数据实时读取 capture_summary
-与 final_ir，五态统计与替换件数禁手改这两个文件（重跑即重算）。写
-`viz/README.md`：以 index.html 为入口，说明每个 HTML 的场景/层级、面板与标记的读法。
+生成 `viz/index.html` 集成面板与 `viz/views.json`（统一暗色主题由生成器保证）：
+数据实时读取 capture_summary 与 final_ir，五态统计与替换件数禁手改这两个文件
+（重跑即重算）。写 `viz/README.md`：以 index.html 为入口，说明每个 HTML 的
+场景/层级、面板与标记的读法。
 
 ### 阶段六 · 总自检
 
